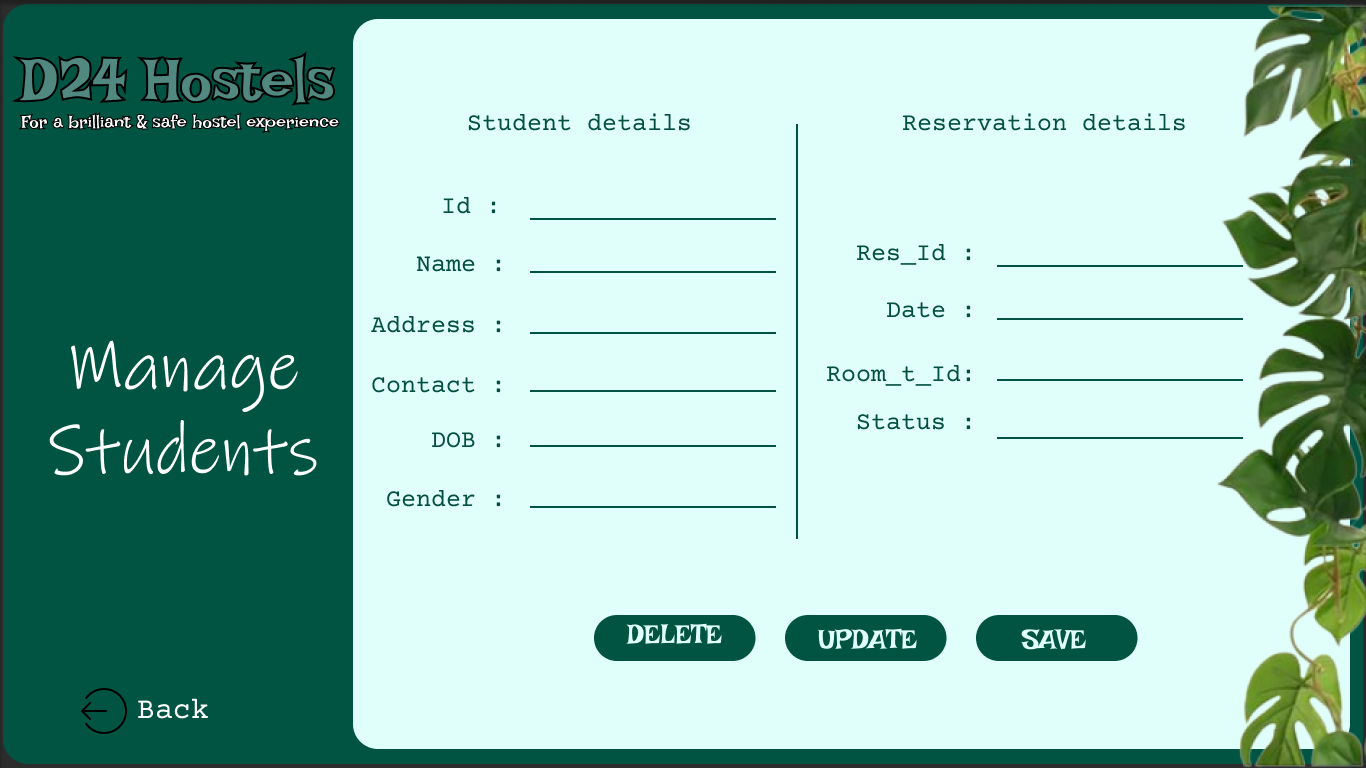
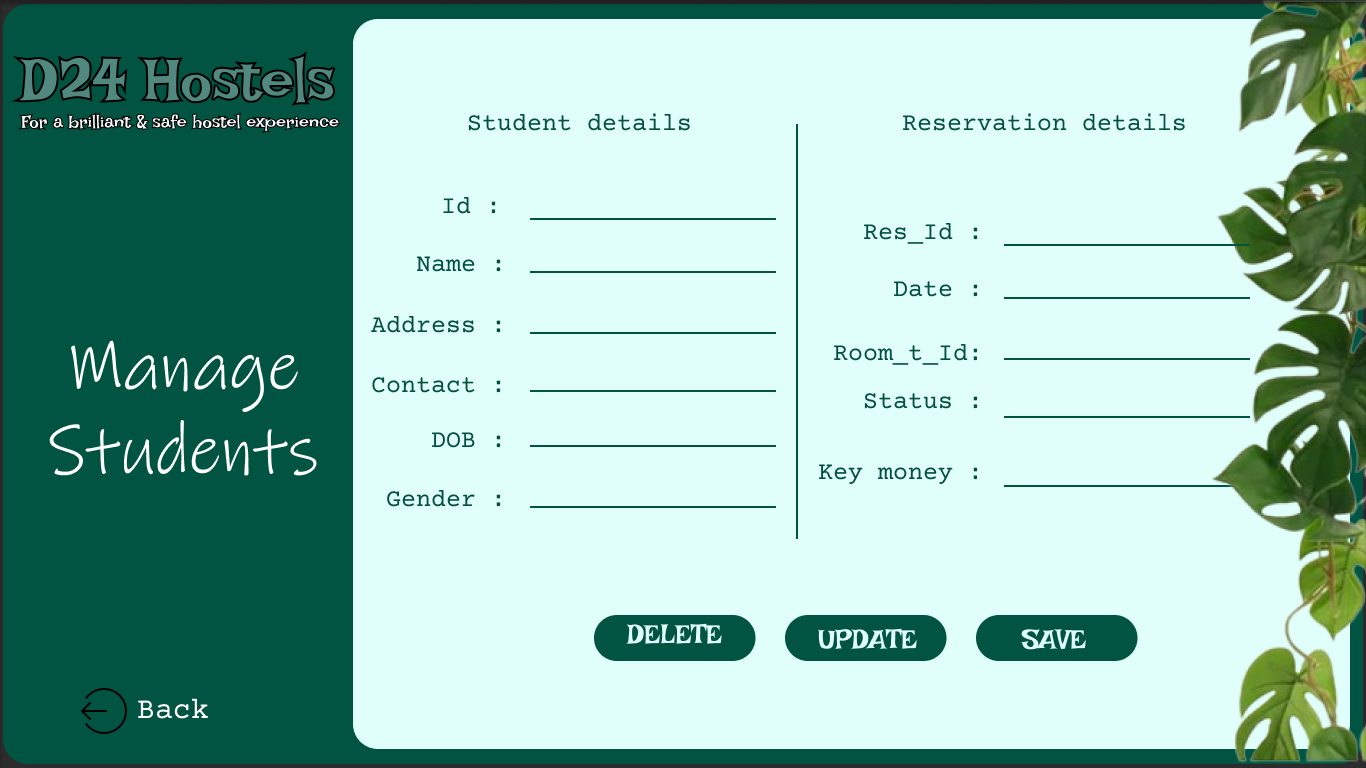
complete UIs

diff --git a/src/main/java/lk/ijse/hibernate_d24/controller/DashboardFormController.java b/src/main/java/lk/ijse/hibernate_d24/controller/DashboardFormController.java
@@ -85,12 +85,24 @@ public class DashboardFormController implements Initializable {
 //        newStage.show();
     }
 
-    public void btnCurrStuOnAction(ActionEvent actionEvent) {
-
+    public void btnCurrStuOnAction(ActionEvent actionEvent) throws IOException {
+        AnchorPane anchorPane = FXMLLoader.load(getClass().getResource("/lk/ijse/hibernate_d24/view/current_stu_view.fxml"));
+        Scene scene = new Scene(anchorPane);
+        Stage stage = (Stage) ((Node) actionEvent.getSource()).getScene().getWindow();
+        //Stage stage = (Stage) pane.getScene().getWindow();
+        stage.setScene(scene);
+        stage.setTitle("Login");
+        stage.centerOnScreen();
     }
 
-    public void btnAccoOnAction(ActionEvent actionEvent) {
-
+    public void btnAccoOnAction(ActionEvent actionEvent) throws IOException {
+        AnchorPane anchorPane = FXMLLoader.load(getClass().getResource("/lk/ijse/hibernate_d24/view/current_room_view.fxml"));
+        Scene scene = new Scene(anchorPane);
+        Stage stage = (Stage) ((Node) actionEvent.getSource()).getScene().getWindow();
+        //Stage stage = (Stage) pane.getScene().getWindow();
+        stage.setScene(scene);
+        stage.setTitle("Login");
+        stage.centerOnScreen();
     }
 
     public void btnManageStuOnAction(ActionEvent actionEvent) throws IOException {

diff --git a/src/main/java/lk/ijse/hibernate_d24/controller/CurrentStuFormController.java b/src/main/java/lk/ijse/hibernate_d24/controller/CurrentStuFormController.java
@@ -1,0 +1,22 @@
+package lk.ijse.hibernate_d24.controller;
+
+import javafx.event.ActionEvent;
+import javafx.fxml.FXMLLoader;
+import javafx.scene.Node;
+import javafx.scene.Scene;
+import javafx.scene.layout.AnchorPane;
+import javafx.stage.Stage;
+
+import java.io.IOException;
+
+public class CurrentStuFormController {
+    public void btnBackOnAction(ActionEvent actionEvent) throws IOException {
+        AnchorPane anchorPane = FXMLLoader.load(getClass().getResource("/lk/ijse/hibernate_d24/view/dashboard-view.fxml"));
+        Scene scene = new Scene(anchorPane);
+        Stage stage = (Stage) ((Node) actionEvent.getSource()).getScene().getWindow();
+        //Stage stage = (Stage) pane.getScene().getWindow();
+        stage.setScene(scene);
+        stage.setTitle("Dashboard");
+        stage.centerOnScreen();
+    }
+}

diff --git a/src/main/java/lk/ijse/hibernate_d24/controller/StudentManageFormController.java b/src/main/java/lk/ijse/hibernate_d24/controller/StudentManageFormController.java
@@ -10,7 +10,8 @@ import javafx.stage.Stage;
 import java.io.IOException;
 
 public class StudentManageFormController {
-    public void txtSIdOnAction(ActionEvent actionEvent) {
+
+    public void txtKeyOnAction(ActionEvent actionEvent) {
 
     }
 
@@ -51,6 +52,10 @@ public class StudentManageFormController {
 
     }
 
+    public void txtSIdOnAction(ActionEvent actionEvent) {
+
+    }
+
     public void btnDeleteOnAction(ActionEvent actionEvent) {
 
     }
@@ -72,4 +77,5 @@ public class StudentManageFormController {
         stage.setTitle("Dashboard");
         stage.centerOnScreen();
     }
+
 }
